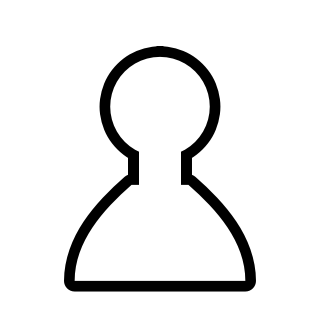
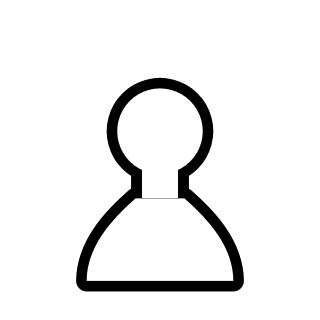
Grunt art scaled to the Pawn's height (Mac: smaller)

Changed region(s): [[0.1875, 0.125, 0.8125, 0.9375]]

diff --git a/art/source/piece_options/make_final_grunt_vassal.py b/art/source/piece_options/make_final_grunt_vassal.py
@@ -1,6 +1,7 @@
 """Final art for the Grunt and the Vassal (Mac, 25 Oct 2026, rounds 26-28).
 Grunt: a great helm on a wide stand (round 26's G3: eye slit and a bar, no
-dots, no white line between helm and stand on the black piece). Grunt with
+dots, no white line between helm and stand on the black piece), scaled to
+the Pawn's height (Mac: smaller). Grunt with
 its shield broken (`_wounded`): the helm gone, a bare head on the stand, one
 silhouette with no dividing lines. Vassal: kneeling on both knees, head bowed,
 one silhouette, scaled to the Pawn's height (top at y 9). Both colours.
@@ -38,13 +39,19 @@ NECK = "M 19.5,26 L 19.5,21 L 25.5,21 L 25.5,26 Z"
 BARE_HEAD = "M 22.5,8 A 7,7 0 1 0 22.5,22 A 7,7 0 1 0 22.5,8 Z"
 
 
+# Drawn 35.5 high (y 4..39.5); shown at the Pawn's height (Mac: smaller), scaled about the bottom.
+GRUNT_SCALE = 30.5 / 35.5
+GRUNT_TRANSFORM = "translate(22.5,39.5) scale(%.4f) translate(-22.5,-39.5)" % GRUNT_SCALE
+
+
 def grunt(team):
     return group(team, '<path d="%s"/><path d="%s"/>' % (STAND, HELM)
-                 + line(team, "M 15.5,14 L 29.5,14", 2) + line(team, "M 22.5,16.5 L 22.5,26", 1.5))
+                 + line(team, "M 15.5,14 L 29.5,14", 2 / GRUNT_SCALE) + line(team, "M 22.5,16.5 L 22.5,26", 1.5 / GRUNT_SCALE),
+                 GRUNT_TRANSFORM, stroke_width=1.5 / GRUNT_SCALE)
 
 
 def grunt_wounded(team):
-    return group(team, union([STAND, NECK, BARE_HEAD]))
+    return group(team, union([STAND, NECK, BARE_HEAD], stroke_width=3 / GRUNT_SCALE), GRUNT_TRANSFORM, stroke_width=1.5 / GRUNT_SCALE)
 
 
 # --- Vassal: kneeling, scaled from a 34-high drawing (y 5.5..39.5) to the pawn's 30.5 ------
